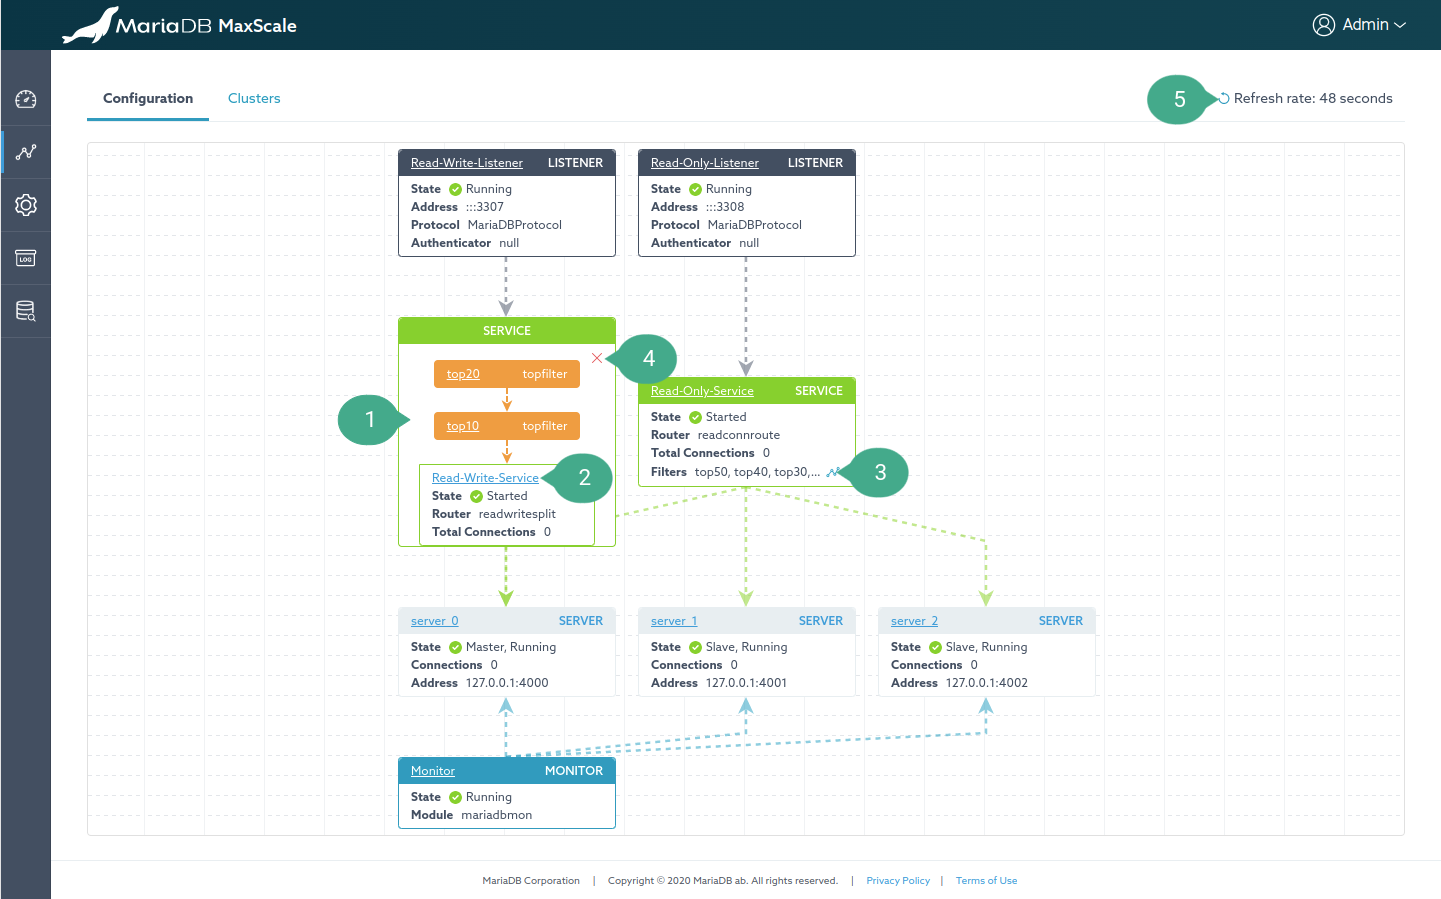
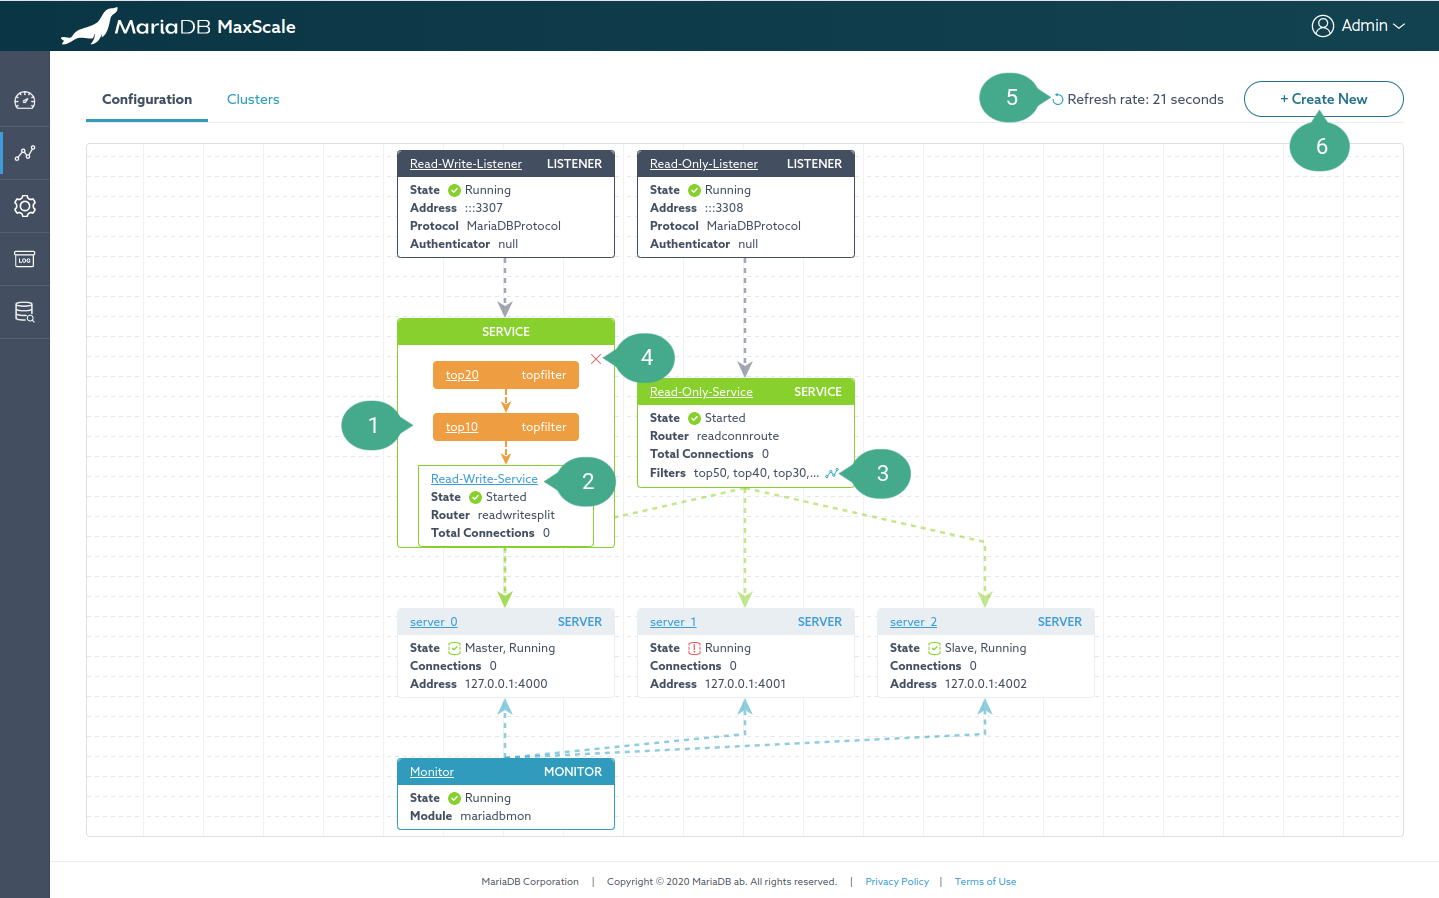
MXS-3642 Update MaxGUI tutorial
Add tutorial for rejoining server to a cluster.
This also updates new screenshots for the cluster and configuration pages.

diff --git a/Documentation/Tutorials/Using-MaxGUI-Tutorial.md b/Documentation/Tutorials/Using-MaxGUI-Tutorial.md
@@ -87,11 +87,12 @@ This page visualizes MaxScale configuration as shown in the figure below.
     be changed by dragging and dropping it.
 2.  Anchor link. The detail page of each MaxScale object can be accessed by
     clicking on the name of the node.
-3.  Filter visualization button. By default, if the number of filters used by a service
-    is larger than 3, filter nodes aren't visualized as shown in the figure. Clicking
-    this button will visualize it.
+3.  Filter visualization button. By default, if the number of filters used by a
+    service is larger than 3, filter nodes aren't visualized as shown in the
+    figure. Clicking this button will visualize them.
 4.  Hide filter visualization button.
 5.  Refresh rate dropdown. The frequency with which the data is refreshed.
+6.  Create a new MaxScale object button.
 
 ## Clusters
 
@@ -121,10 +122,18 @@ the figure below.
 6.  Anchor link of the server. Opening the detail page of the server in a new
     tab.
 7.  Collapse its children nodes.
-8.  Monitor manipulation operations button. Showing a dropdown with the
+8.  Rejoin node. When the `auto_rejoin` parameter is disabled, the node can be
+    manually rejoined by dragging it on top of the primary server.
+9.  Monitor manipulation operations button. Showing a dropdown with the
     following operations:
     - Stop monitor.
     - Start monitor.
+    - Reset Replication.
+    - Release Locks.
+    - Master failover. Manually performing a master failover. This option is
+      visible only when the `auto_failover` parameter is disabled.
+10. Refresh rate dropdown. The frequency with which the data is refreshed.
+11. Create a new MaxScale object button.
 
 # Settings
 
